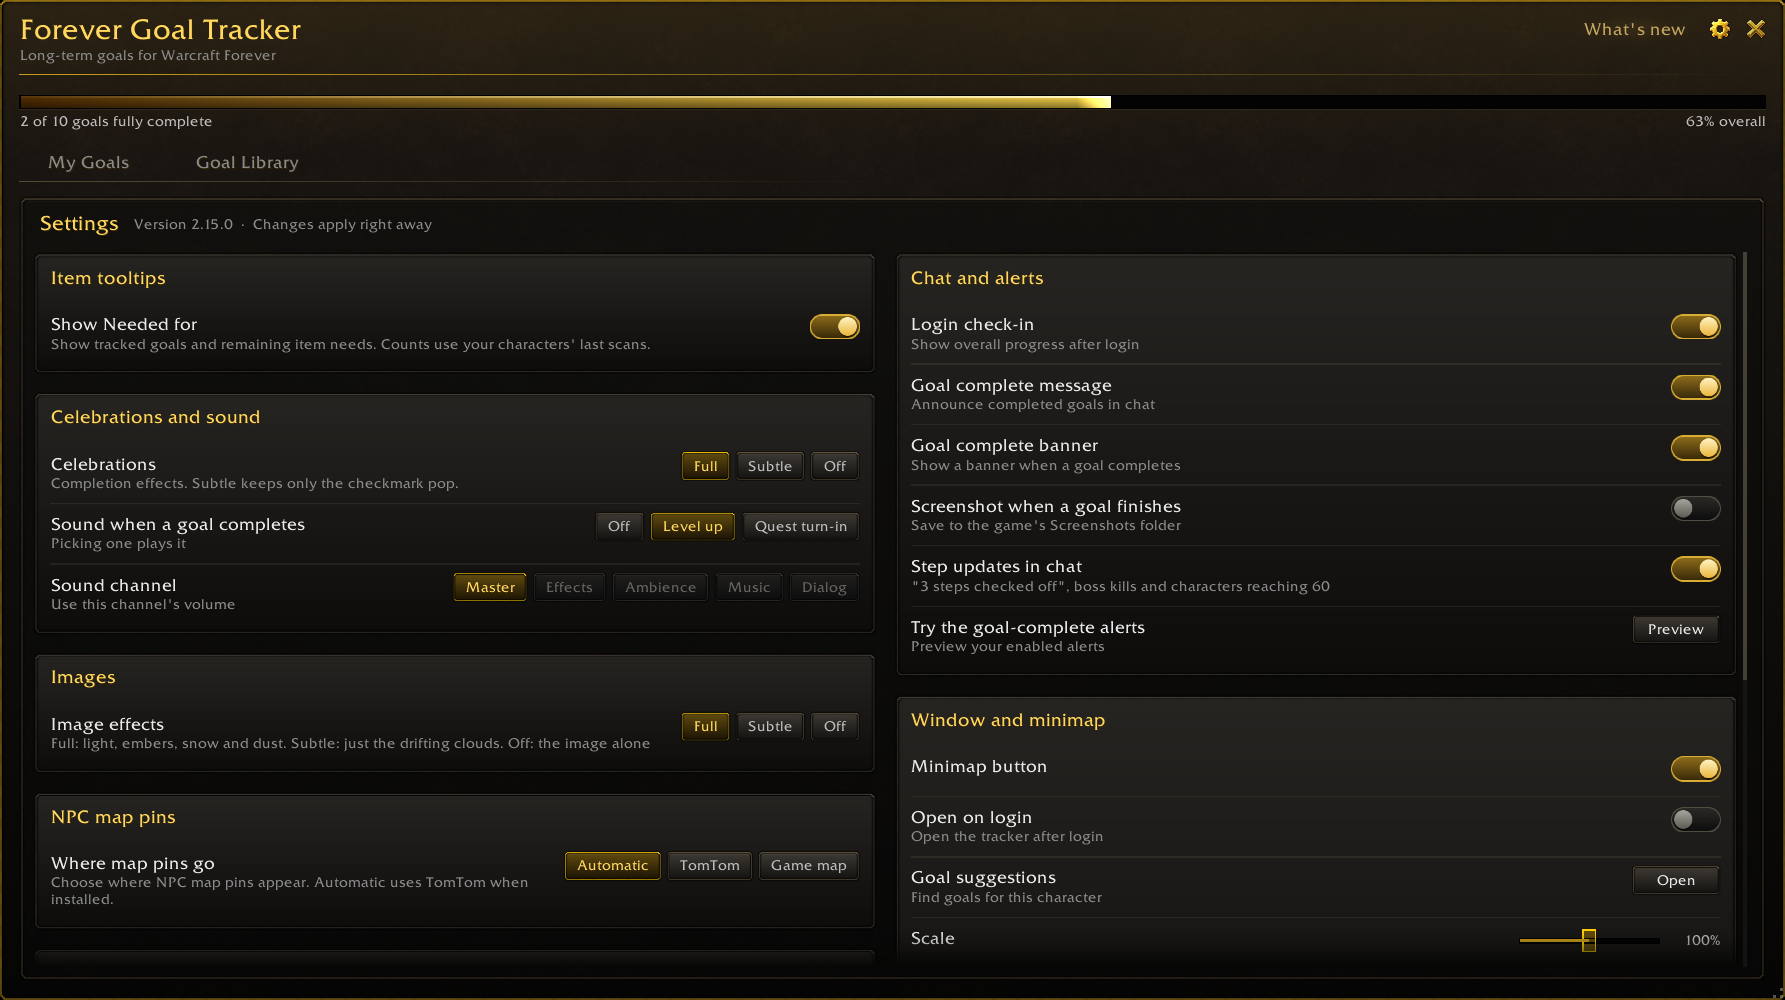
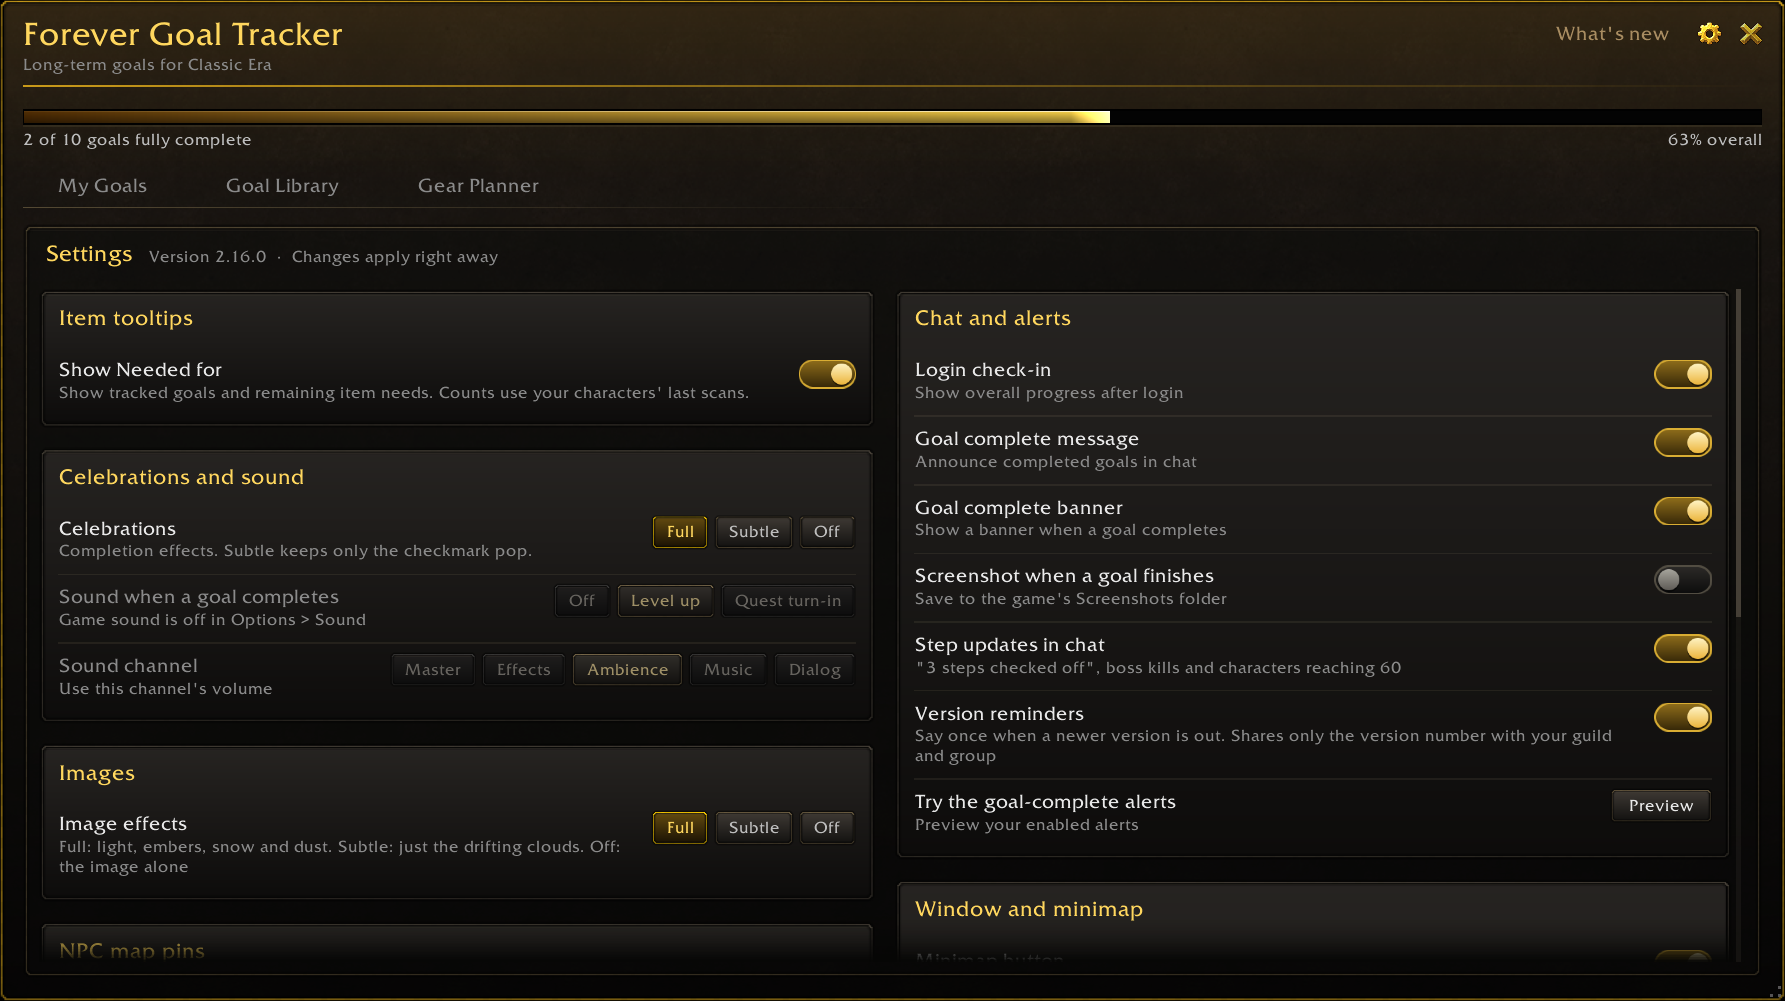
Gallery: Classic Era screenshots and a Dwarf Rogue Gear Planner shot
Retakes nine gallery screenshots on Classic Era and adds 13-gear-planner.
The three Forever-only shots (Wolfsbane, New and Updated, Embrace of the
Viper) are kept as they were.

The Gear Planner scene stages a level 60 Dwarf Rogue with Wowhead's dagger
Rogue pre-raid best in slot set (new rogue_preraid_wowhead preset, all 17
items checked against the database and class rules). When the logged-in
character is also a Dwarf the model keeps that character's own look, since
the addon cannot choose a hair colour. The map scene opens fully zoomed out
(a scene can now set its own map zoom), and /goals map status prints what
the map layer is doing. The map shows only areas the character has
discovered, which is by design. /goals shots 03 retakes one shot and
tools/shots.py --only crops it.

diff --git a/tools/check.py b/tools/check.py
@@ -636,9 +636,9 @@ if ok_all:
         'assert(#F.SHOTS == 13, "thirteen gallery shots"); '
         'local forever = 0; for _, s in ipairs(F.SHOTS) do if s.forever then forever = forever + 1 end end; '
         'assert(forever == 3, "Wolfsbane, New and Updated and Embrace of the Viper are the Forever-only shots"); '
-        'S("demo 13"); local key = "Demo Dwarf Hunter-Demo"; '
-        'assert(F.demoPlannerKey == key and D.characters[key] and D.characters[key].race == "Dwarf" and D.characters[key].class == "HUNTER", "scene 13 stages a Dwarf Hunter"); '
-        'local build = D.gearPlanner.characters[key].builds[1]; assert(build.preset == "hunter_preraid_wowhead" and build.level == 60 and build.slots[16] and build.slots[18], "scene 13 opens the pre-raid set at level 60"); '
+        'S("demo 13"); local key = "Demo Dwarf Rogue-Demo"; '
+        'assert(F.demoPlannerKey == key and D.characters[key] and D.characters[key].race == "Dwarf" and D.characters[key].class == "ROGUE", "scene 13 stages a Dwarf Rogue"); '
+        'local build = D.gearPlanner.characters[key].builds[1]; assert(build.preset == "rogue_preraid_wowhead" and build.level == 60 and build.slots[16] and build.slots[18], "scene 13 opens the pre-raid set at level 60"); '
         'S("demo 1"); assert(not D.characters[key] and not F.demoPlannerKey and not D.gearPlanner.characters[key], "the next scene removes the pretend character and set"); '
         'S("demo 13"); S("demo off"); assert(not D.characters[key] and not D.gearPlanner.characters[key], "demo off removes the pretend character and set"); '
         'print("  materials, Library, Wolfsbane, map and Gear Planner scenes ok")')

diff --git a/tools/shots.py b/tools/shots.py
@@ -1,5 +1,7 @@
 """Crop the gallery screenshots that /goals shots took and name them.
-  python tools/shots.py [--era] [game Screenshots folder]
+  python tools/shots.py [--era | --only 03] [game Screenshots folder]
+  --only  for one shot retaken with `/goals shots 03` (the number or the name): only that file is
+          written, from the newest screenshot.
   --era   for a burst taken with `/goals shots era`: the Forever-only shots (below) are left out of
           the burst, so the matching files in Screenshots/ are kept as they are.
 Finds the newest burst of screenshots in the game's Screenshots folder
@@ -18,12 +20,20 @@ FOREVER_ONLY = ["02-wolfsbane", "07-new-and-updated", "09-find-your-next-goal"]
 ERA = "--era" in sys.argv
 if ERA:
     NAMES = [n for n in NAMES if n not in FOREVER_ONLY]
+ONLY = sys.argv[sys.argv.index("--only") + 1] if "--only" in sys.argv else None
+if ONLY:
+    NAMES = [n for n in NAMES if n.startswith(ONLY)]
+    if len(NAMES) != 1:
+        sys.exit("--only needs one shot (a number like 03 or a name): %r matches %d" % (ONLY, len(NAMES)))
 
 here = os.path.dirname(os.path.abspath(__file__))
 sys.path.insert(0, os.path.join(here, ".py"))
 from PIL import Image
 
-candidates = [a for a in sys.argv[1:] if a != "--era"] or [
+_args = [a for a in sys.argv[1:] if a != "--era"]
+if ONLY:
+    _args = [a for a in _args if a not in ("--only", ONLY)]
+candidates = _args or [
     os.path.join(here, "..", "..", "..", "..", "Screenshots"),          # PC: repo sits in AddOns
     "/Applications/World of Warcraft/_classic_beta_/Screenshots",      # Mac
 ]

diff --git a/reports/CurseForge-gallery-2.16.0.md b/reports/CurseForge-gallery-2.16.0.md
@@ -1,6 +1,6 @@
 # Gallery plan for 2.16.0
 
-Karl's call (2026-10-24): retake the gallery on Classic Era so it shows the current UI, keep the few shots that are specific to Forever, and add a Gear Planner shot (a level 60 Dwarf Hunter with the pre-raid best in slot set). Nothing here has been captured or uploaded yet. Preparing this file does not update the author console.
+Karl's call (2026-10-24): retake the gallery on Classic Era so it shows the current UI, keep the few shots that are specific to Forever, and add a Gear Planner shot (a level 60 Dwarf Rogue with the pre-raid best in slot set). Nothing here has been captured or uploaded yet. Preparing this file does not update the author console.
 
 ## What changes
 
@@ -8,12 +8,12 @@ Karl's call (2026-10-24): retake the gallery on Classic Era so it shows the curr
 |---|---|---|
 | `01-my-goals.png` | Retake on Era | The window now has a Gear Planner tab. |
 | `02-wolfsbane.png` | **Keep** | Wolfsbane is a Forever quest weapon. |
-| `03-map-view.png` | Retake on Era | The 2.15.0 capture showed no zone map (see the note below). |
+| `03-map-view.png` | Retake on Era | See the note on the map shot below. |
 | `04-links-and-tips.png` | Retake on Era | |
 | `05-materials.png` | Retake on Era | It still shows the old Tauren Warrior Tier 3 artwork. |
 | `06-library-filters.png` | Retake on Era | |
 | `07-new-and-updated.png` | **Keep** | The blue NEW and UPDATED labels only exist on Forever. |
-| `08-epic-mounts.png` | Retake on Era | Era has the eight racial mounts without the Skyborne row. |
+| `08-epic-mounts.png` | Retaken on Era, review | The capture shows the Skyborne row with a blue NEW label (Forever content), which Era's data also lists. |
 | `09-find-your-next-goal.png` | **Keep** | Embrace of the Viper is UPDATED in Forever. |
 | `10-welcome.png` | Retake on Era | |
 | `11-suggestions.png` | Retake on Era | |
@@ -29,7 +29,7 @@ Feature the Gear Planner second.
 | File | Title | Description |
 |---|---|---|
 | `01-my-goals.png` | My Goals | Favorites, progress and a step-by-step guide. Progress is tracked across your characters. |
-| `13-gear-planner.png` | Gear Planner | Plan a gear set slot by slot, with item sources, enchants and a 3D preview on your race's backdrop. Shown: a level 60 Dwarf Hunter's pre-raid set. |
+| `13-gear-planner.png` | Gear Planner | Plan a gear set slot by slot, with item sources, enchants and a 3D preview on your race's backdrop. Shown: a level 60 Dwarf Rogue's pre-raid set. |
 | `02-wolfsbane.png` | Goal artwork | Illustrated goal backgrounds with optional light and particle effects. Wolfsbane is a Forever quest weapon for Horde Paladins. |
 | `03-map-view.png` | Find your next step | See the zone map and a pin for the person your next step needs. |
 | `04-links-and-tips.png` | Links, tips and a folding list | Linked items, quests and NPCs in the guide. Fold the goals list to give the guide more room. |
@@ -46,14 +46,14 @@ Feature the Gear Planner second.
 
 1. `/reload`, then size the window as you want the gallery to look (the earlier shots are 1785 x 1000). Close other windows.
 2. Optional, if the Gear Planner shot comes out with blank gear: run `/goals demo 13`, wait until the character is dressed, then `/goals demo off`. That lets the client load the item data once.
-3. Run `/goals shots era`. It takes the ten Classic Era shots (everything except the three Forever-only ones) in one go, using a black photo backdrop and demo scenes, and puts everything back after. Keep the mouse off the window. The Gear Planner shot is last and waits 12 seconds for the model, the items and the snow to settle.
+3. Run `/goals shots era`. To retake just one shot, run `/goals shots 03` (the number or the name) and then `python tools/shots.py --only 03`. It takes the ten Classic Era shots (everything except the three Forever-only ones) in one go, using a black photo backdrop and demo scenes, and puts everything back after. Keep the mouse off the window. The Gear Planner shot is last and waits 12 seconds for the model, the items and the snow to settle.
 4. Wait for "done: 10 screenshots", then run `python tools/shots.py --era` in the repo. It crops each shot to the window and writes `Screenshots/NN-name.png`, leaving the three Forever shots untouched.
 5. Review a contact sheet and each full-size image, then say so and I will update the notes and commit.
 
 `/goals shots` with no argument still takes all 13 (use it on live Forever after November 4).
 
-The Gear Planner scene (`/goals demo 13`) stages a pretend roster character, "Thurgrim", with the Hunter Pre-Raid BiS set open and the Set totals expanded. It never touches your real characters or sets: the pretend character and set are removed when the demo ends or another scene starts.
+The Gear Planner scene (`/goals demo 13`) stages a pretend roster character, "Thurgrim", with the Rogue Pre-Raid BiS set open (Wowhead's dagger Rogue pre-raid "realistic" BiS, 17 items) and the Set totals expanded. When the logged-in character is also a Dwarf, the model keeps that character's own look, hair included; the addon cannot choose a hair colour itself. It never touches your real characters or sets: the pretend character and set are removed when the demo ends or another scene starts.
 
-## Earlier note kept from 2.15.0
+## About the map shot
 
-The map view needs the zone map to be visible when the shot is taken; the 2.15.0 capture showed only the Dreadsteed artwork and a pin. If `/goals shots era` again shows no map, retake `03-map-view` alone: open the goal's map, wait for the zone map, and use `/goals photo black` with a single screenshot.
+`03-map-view` is not broken when it looks mostly empty. The map shows only the parts of the zone the logged-in character has discovered, as the game's own map does, so a low level character in Burning Steppes shows the mountain ranges and a pin on an undiscovered map. That is how it fills in as a character explores. `/goals map status` prints what the map layer is doing (tiles from the game, tiles drawn, alpha, zoom) if it ever needs checking. The captured `03-map-view.png` is the earlier close-up (Karl kept it on 2026-10-24: a zoomed-out retake is not much different). The scene itself now opens fully zoomed out (the Dreadsteed's step starts at 199%, a close-up of two tiles). For a fuller map, take the shot on a character that has explored the zone, or stage a goal whose NPC stands in a zone this character knows.
